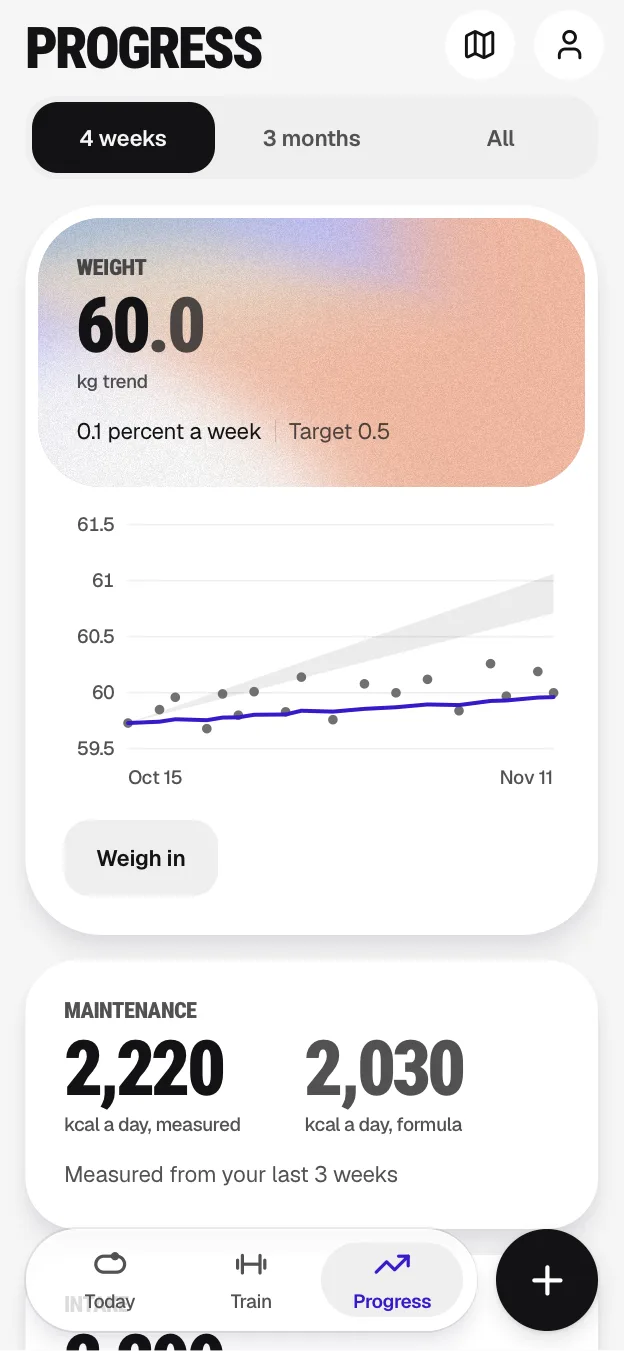
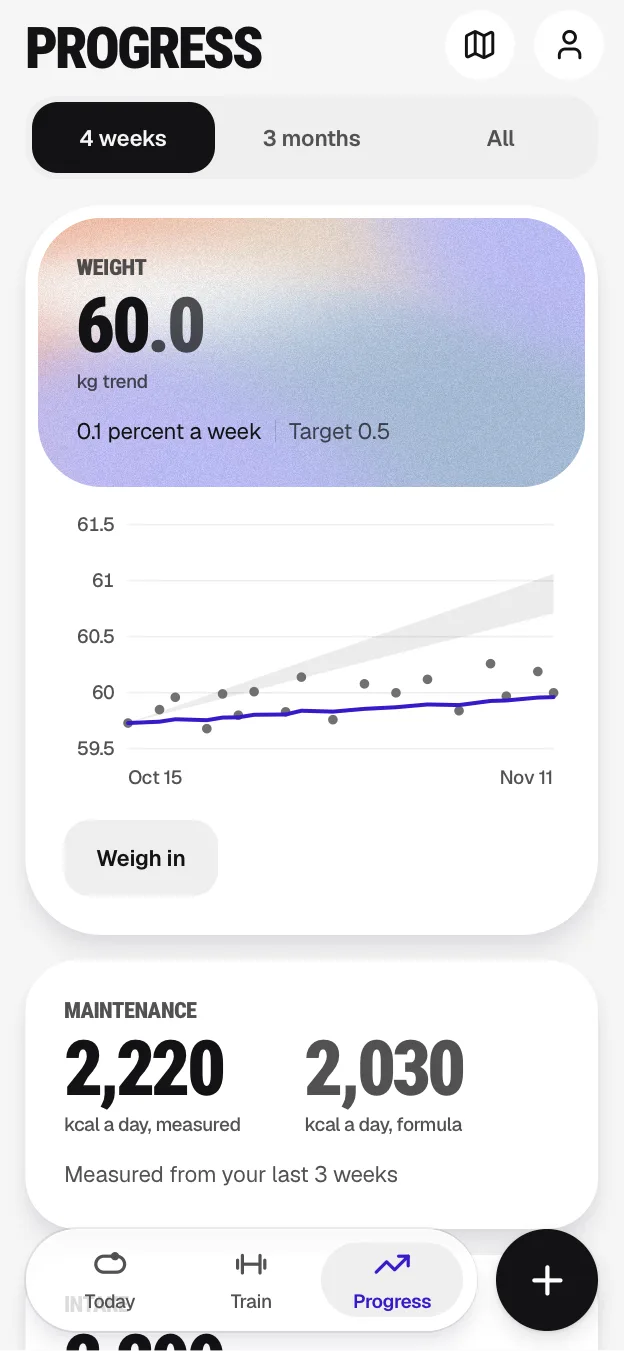
feat(p1): the critic round and the brand in every gradient
Violet moved to edges and corners, the dark washes each led by their own colour, the light
featured card no longer brown, the haze and the check-in field turned around. The owner's
addition: every gradient draws from all ten colours, violet or lavender as depth or an accent;
scripts/gradients.sh records where. Review: the script's yab calls read no stdin, the call's
and the dark featured card's fallbacks are checked, stale comments fixed.

Changed region(s): [[0.0609, 0.1554, 0.9439, 0.3731]]

diff --git a/design/tokens.css b/design/tokens.css
@@ -24,7 +24,8 @@
 
   /* Reached: green marks progress that reached its target. Nothing else is green. */
   --success: #19dba8;           /* the "+20,8%" chip: fills only */
-  --success-ink: #006644;       /* "On track" words and dots. #198669 fails 4.5 to 1 on the hero's lavender (derived) */
+  --success-ink: #006644;       /* "On track" words and dots (derived, darker than #198669 for the hero). On the photo haze
+                                   (P1) only the heading sized reached figure, large text at 3 to 1 */
   --success-soft: #daf9f1;      /* derived: 16 percent of the fill on white */
 
   /* Neutrals */
@@ -55,16 +56,17 @@
 
   /* Gradients: one per screen at most, on its hero. Never on a button, a row or text */
   /* P1, the owner's round 3: every gradient is a photo gradient made on photogradient.com from the palette (section 4),
-     each one its own eight points, all from the settings of the owner's example (scripts/gradients.sh). The first layer
+     each one its own eight points from the ten colours (the brand's violet or lavender in every one, as depth or an
+     accent), all from the settings of the owner's example (scripts/gradients.sh). The first layer
      is the site's grain, the CSS gradient beneath is the fallback; words on each are checked on its colours
      (contrast.test.ts) and on the image (landing.spec.ts) */
   --grain: url(./gradients/grain.webp) 0 0 / 128px;
-  /* the hero haze: the palette's light colours, mist and lavender cool at the top left, peach warm at the right. Secondary
-     words on it are ink at 73 percent (the `haze` utility), which matches ink-2 on white and keeps 4.5 to 1 on peach */
+  /* the hero haze: the palette's light colours, peach and sand warm at the top left, lavender and mist cool to the right
+     and below. Secondary words on it are ink at 73 percent (the `haze` utility): ink-2 on white, 4.5 to 1 on lavender */
   --grad-hero: var(--grain), url(./gradients/haze-light.webp) center / cover no-repeat,
-    radial-gradient(70% 100% at 0% 0%, #a7bedb 0%, transparent 70%),
-    radial-gradient(70% 120% at 100% 60%, #f9bba1 0%, transparent 70%),
-    radial-gradient(60% 90% at 0% 100%, #bebeff 0%, transparent 70%), #eddecc;
+    radial-gradient(70% 100% at 0% 0%, #f9bba1 0%, transparent 70%),
+    radial-gradient(70% 120% at 100% 20%, #bebeff 0%, transparent 70%),
+    radial-gradient(60% 90% at 70% 100%, #a7bedb 0%, transparent 70%), #ffffff;
   /* the screen's one featured card (U1b: the Add sheet's Photo): violet with steel and clay deepened, white words */
   --grad-feature: var(--grain), url(./gradients/feature-light.webp) center / cover no-repeat,
     radial-gradient(90% 120% at 100% 30%, #a95445 0%, transparent 70%),
@@ -186,10 +188,10 @@
      anchors it, and the page masks it to nothing at every edge (the `glow` utility), since its edges are only near the canvas */
   --glow: var(--grain), url(./gradients/glow.webp) center / 100% 100% no-repeat,
     radial-gradient(70% 50% at 50% 50%, #9c5e57 0%, rgba(56, 26, 201, 0.5) 45%, transparent 75%);
-  /* the check-in's field (pick 07): lavender led, with white, mist, heather, peach and coral */
+  /* the check-in's field (pick 07): lavender led, peach and white at the top right, coral below them, mist and heather */
   --grad-lavender: var(--grain), url(./gradients/panel.webp) center / cover no-repeat,
-    radial-gradient(60% 60% at 80% 75%, #f9bba1 0%, transparent 70%), radial-gradient(60% 60% at 60% 0%, #ffffff 0%, transparent 70%), #bebeff;
-  /* the closing call's panel, inside the dark run in both themes: clay and coral deepened, with steel, heather and violet */
+    radial-gradient(60% 60% at 60% 0%, #f9bba1 0%, transparent 70%), radial-gradient(60% 60% at 80% 70%, #f89183 0%, transparent 70%), #bebeff;
+  /* the closing call's panel, inside the dark run in both themes: heather and steel deepened, a band of clay and coral */
   --grad-call: var(--grain), url(./gradients/call.webp) center / cover no-repeat,
     radial-gradient(90% 120% at 80% 40%, #a95445 0%, transparent 70%),
     radial-gradient(60% 90% at 0% 0%, #486478 0%, transparent 70%), #121214;
@@ -205,9 +207,9 @@
   --liquid-white: rgba(255, 255, 255, 0.6);
   --liquid-white-rim: inset 1px 1px 0 rgba(255, 255, 255, 0.9), inset -1px -1px 0 rgba(255, 255, 255, 0.35);
   /* the colour-washed cards (pick 10): white words on ink, steel and clay (deepened), night words on sand */
-  --wash-ink: var(--grain), url(./gradients/wash-ink.webp) center / cover no-repeat, linear-gradient(160deg, #121214 0%, #3f5668 60%, #381ac9 100%);
-  --wash-steel: var(--grain), url(./gradients/wash-steel.webp) center / cover no-repeat, linear-gradient(160deg, #4a677c 0%, #445d70 50%, #381ac9 100%);
-  --wash-clay: var(--grain), url(./gradients/wash-clay.webp) center / cover no-repeat, linear-gradient(160deg, #a55244 0%, #9a4d40 50%, #381ac9 100%);
+  --wash-ink: var(--grain), url(./gradients/wash-ink.webp) center / cover no-repeat, linear-gradient(160deg, #121214 0%, #364957 60%, #381ac9 100%);
+  --wash-steel: var(--grain), url(./gradients/wash-steel.webp) center / cover no-repeat, linear-gradient(160deg, #4a677c 0%, #445d70 50%, #486478 100%);
+  --wash-clay: var(--grain), url(./gradients/wash-clay.webp) center / cover no-repeat, linear-gradient(160deg, #a55244 0%, #9a4d40 50%, #864439 100%);
   --wash-sand: var(--grain), url(./gradients/wash-sand.webp) center / cover no-repeat, linear-gradient(160deg, #eddecc 0%, #f9bba1 50%, #f89183 100%);
 }
 

diff --git a/tests/unit/contrast.test.ts b/tests/unit/contrast.test.ts
@@ -74,10 +74,12 @@ test('dark steps stand apart', () => {
   expect(on(dark, 'glass-edge', 'canvas'), 'dock edge on page').toBeGreaterThanOrEqual(2);
 });
 
-// U1b: the featured card's gradient (the Add sheet's Photo) carries white words on every stop, in both themes
-test('words on the featured card', () => {
-  const at = css.indexOf('--grad-feature:');
-  for (const m of css.slice(at, css.indexOf(';', at)).matchAll(/#[0-9a-f]{6}/gi)) expect(ratio(parse(light['on-accent']), parse(m[0])), m[0]).toBeGreaterThanOrEqual(4.5);
+// U1b: the featured card's gradient (the Add sheet's Photo) carries white words on every stop, in both themes; P1: the
+// closing call's too
+test('words on the featured card and the closing call', () => {
+  const at = [...css.matchAll(/--grad-(feature|call):/g)].map((m) => m.index);
+  expect(at).toHaveLength(3);
+  for (const a of at) for (const m of css.slice(a, css.indexOf(';', a)).matchAll(/#[0-9a-f]{6}/gi)) expect(ratio(parse(light['on-accent']), parse(m[0])), m[0]).toBeGreaterThanOrEqual(4.5);
 });
 
 // P1: every photo gradient's eight colours (scripts/gradients.sh), each under the grain's mean (the site's noise: 9.5

diff --git a/src/flows/landing/Landing.svelte b/src/flows/landing/Landing.svelte
@@ -328,7 +328,7 @@
   @media (prefers-reduced-motion: no-preference) { .tap:active { scale: 0.97; } }
   /* L3: the footer's Learn links scroll to these and focus them; the bar (8 + 52) and 8 more stay clear */
   section[id] { scroll-margin-top: calc(env(safe-area-inset-top) + var(--spacing) * 17); outline: none; }
-  /* the lead sits on the sky's violet top: full ink, not ink-2, keeps it at 4.5 to 1 */
+  /* the lead sits on the sky's photo (P1: mist, sand and peach, contrast.test.ts checks ink on all of it): full ink, not ink-2 */
   .hero-lead { color: var(--ink); }
 
   /* hidden until shown, in every motion setting; the slide itself only when motion is welcome */

diff --git a/docs/DESIGN.md b/docs/DESIGN.md
@@ -139,7 +139,7 @@ Two faces, self hosted from their OFL packages and precached: Roboto Condensed 9
 - **The status bar continues the top of the screen (U1b).** `topColour()` sets `theme-color` and the root's background (Safari 26 samples it): the landing hero's sky (`--sky-top`) on the landing page, the canvas everywhere else, onboarding included.
 - **Depth.** In light mode cards carry `--shadow-card`, OneFin's soft stats card shadow, and never a border with it. In dark mode cards have no shadow and a 1 px `--line` ring. Things that float (the dock, toasts, a dragged row) have `--shadow-float`. The ink pill and the dock's plus carry `--shadow-action`, a soft drop below them. No button has an inner light, a bevel, a rim, a gradient or a glow (`tests/e2e/app.spec.ts` sweeps every button for them).
 - **Content cards stay solid,** white or the dark surface, so their numbers stay readable. Nothing that carries a number you need to read is glass.
-- **Gradients (P1, the owner's round 3).** At most one per screen, on its hero. Every gradient is a photo gradient made on photogradient.com with the settings of the owner's example (screenshot 08 of round 3): Sharp Bézier, Worley Noise warp 0.4, warp size 1, eight colour points from the palette (section 4), the site's grain at 60 percent. Each is its own: its own colours and positions, all recorded in `scripts/gradients.sh`, which remakes them. The grain is the site's noise drawn once as a tile (`--grain`, 9.5 percent alpha), which gives the site's own pixels at a fraction of the weight and stays crisp at any size. `--grad-hero` (the `haze` utility) is the palette's light colours in light (mist and lavender cool at the top left, peach warm at the right) and the same deepened in dark; secondary words on it are `--haze-ink-2`, ink at 73 percent (exactly `--ink-2` on white), so they keep 4.5 to 1 across the photo. `--grad-feature` is the featured card's. The landing page's gradients are in section 13. Nothing else has a gradient. The CSS gradient beneath each is its fallback; `contrast.test.ts` checks the words on each gradient's eight colours and `landing.spec.ts` on the images.
+- **Gradients (P1, the owner's round 3).** At most one per screen, on its hero. Every gradient is a photo gradient made on photogradient.com with the settings of the owner's example (screenshot 08 of round 3): Sharp Bézier, Worley Noise warp 0.4, warp size 1, eight colour points drawn from all ten colours, the brand's two and the palette's eight (section 4), with violet or lavender in every one for depth or an accent and never the main colour, the site's grain at 60 percent. Each is its own: its own colours and positions, all recorded in `scripts/gradients.sh`, which remakes them. The grain is the site's noise drawn once as a tile (`--grain`, 9.5 percent alpha), which gives the site's own pixels at a fraction of the weight and stays crisp at any size. `--grad-hero` (the `haze` utility) is the palette's light colours in light (peach and sand warm at the top left, lavender and mist cool to the right and below) and the same deepened in dark; secondary words on it are `--haze-ink-2`, ink at 73 percent (exactly `--ink-2` on white), so they keep 4.5 to 1 across the photo. Words on the haze are ink and `--haze-ink-2`; `--success-ink` only as the heading sized reached figure (large text, 3 to 1 on the peach); no `--ink-3`. `--grad-feature` is the featured card's. The landing page's gradients are in section 13. Nothing else has a gradient. The CSS gradient beneath each is its fallback; `contrast.test.ts` checks the words on each gradient's eight colours and `landing.spec.ts` on the images.
 - **Glass.** As OneFin's "Paid" pill and "Direct pay" chip: backdrop blur, a translucent fill, a 1 px translucent white edge and a soft drop (`glass`; `glass-bar` for the dock, with more fill since rows scroll under it). Without blur (`@supports not`) the solid `--glass-solid` or `--bar-solid` stands in. Allowed only on: small chips and pills over a coloured or gradient surface or a picture (the hero's day chip, the landing page's bar and tiles), sheet backdrops (the blurred scrim), and the dock. The header is opaque.
 - **Width.** Content sits in a column of at most 480 px, centred on `--surround` on wider screens.
 - **One card, one job.** Nest only as OneFin nests: the hero card is a white shell holding its haze panel and grey stat tiles, radii stepping down. Otherwise divide a card with a hairline.
@@ -307,7 +307,7 @@ The landing page is the one marketing screen: a visitor reads it top to bottom, 
 | Phones with real screens (05, 12) | Every feature | Proof by showing: each is a screenshot of the app at the current look, never a mock-up. L2: an iPhone 16 drawn in CSS from its published sizes (393 by 852, a 54 point status bar, the island 126 by 37, 55 point screen corners), with the status bar at 9:41 and the Dynamic Island above the screen, so the app never touches the top; no shadow. A scale drawing: its sizes are shares of its own width (`cqw`), not tokens. The meal in every phone is the owner's pad kra pao with fried eggs (`tests/fixtures/krapao.jpg`) |
 
 Rules that bend here, and only here:
-- **Gradients (P1: the owner's photo gradients).** Every gradient is an image made on photogradient.com from the palette, each its own (section 6, `design/gradients/`, `scripts/gradients.sh`), the site's grain over it, its CSS gradient beneath as the fallback: `--grad-sky` (the hero: the whole palette but clay in light, slate, violet and rust in dark), `--glow` (the dark sections: rust and coral with violet and steel), `--grad-lavender` (the check-in's field, lavender led), the four `--wash-*` (the source cards: ink, steel and clay deepened with white words, sand with night words), `feature` on 01 Logging's featured card and `--grad-call` on the closing call's panel. Still never on a button, a row, a chip or text. The words on each are checked in `contrast.test.ts` and `landing.spec.ts`.
+- **Gradients (P1: the owner's photo gradients).** Every gradient is an image made on photogradient.com from the palette, each its own (section 6, `design/gradients/`, `scripts/gradients.sh`), the site's grain over it, its CSS gradient beneath as the fallback: `--grad-sky` (the hero: the whole palette but clay in light, slate and rust with a violet corner in dark), `--glow` (the dark sections: rust and coral with steel and violet), `--grad-lavender` (the check-in's field, lavender led), the four `--wash-*` (the source cards: night, steel and clay deepened with white words, sand with night words), `feature` on 01 Logging's featured card and `--grad-call` on the closing call's panel. Still never on a button, a row, a chip or text. The words on each are checked in `contrast.test.ts` and `landing.spec.ts`.
 - **The glow (L2, the owner's footer-glow-bug).** Brightest at its middle and faded to nothing at every edge (the `glow` utility's mask), so neither colour nor grain starts at a line. In the footer (L3) its middle sits on the wordmark's foot (`landing.spec.ts` checks it): below the end of the page while the footer is closed, rising from there, and behind the opened panel. In 02 Training it rises from the section's foot.
 - **Liquid Glass (L2, iOS 26's "regular" material).** Blur and saturate what is behind, tint it, and catch the light with a rim, bright top left and faint bottom right: `liquid` (follows the theme), `liquid-bar` (the bar and the floating action's tray, with the dock's fill, since content scrolls under them), `liquid-white` (night words in both themes: the hero's chips and the check-in's cards) and `liquid-violet` (white words: the footer's panels). On the bar, the hero's chips, the check-in's cards, the source cards' icon chips, the closing call's mark tile and the footer's shell and panels; the cards that carry a screen or a number stay solid (Logging, Training, Friends' tiles, the washes), as glass-01 to 05 mix the two. Never on a button: the rim is an inner light, so the back to top tile keeps `glass`. Every tap on the page has a pressed state: a fill step, and 0.97 when motion is welcome (`.tap`). L3, glass that bends: the body blurs 24 px (`--liquid-blur`), and what is behind warps at the rim. Where the browser draws SVG filters inside `backdrop-filter` (Chromium, detected in `glass.ts`), each glass gets a filter that blurs the body and magnifies a 16 px rim toward its edge. Elsewhere (Safari), a glass over a gradient image holds a `lens` span: that image again, aligned, scaled 1.12 about the glass's middle and lightly blurred, in a soft 14 px band at the rim, with the rim light drawn over it. Only where the image is all that is behind (not over a phone, not on the bar). Without blur each has a solid fill.
 - **Centred text.** Headlines, leads and the statement are centred on a phone, as OneFin's are; the hero is left aligned on a wide screen.

diff --git a/docs/DECISIONS.md b/docs/DECISIONS.md
@@ -9,7 +9,7 @@ The owner's wider palette and every gradient remade, 14 November 2026, unattende
 - **Gradients made on photogradient.com through Yab's CLI, every setting from the owner's screenshot 07:** Sharp Bézier, Worley Noise, warp 0.4 of 1.5 (the slider's 27 percent), warp size 1 of 3 (33 percent), eight points. The sliders' positions were measured off the screenshot; they are the site's defaults but for the noise. Recreating the owner's own eight points from screenshot 07 gave screenshot 08's picture, so the settings are right.
 - **Points are set through the site's own state.** The site draws its points on a canvas that only takes a drag, so a script in the page sets the colours, the positions its photo picker would set, the settings and the size, then clicks the site's own Download. Yab cannot publish a download a script starts, so the canvas the site renders for the download is read back from the page in chunks. `scripts/gradients.sh` does all of it from the table in its header (the site renders the same pixels every time: no time or random seed reaches the shader with these settings), so any one can be remade or retuned by editing its row.
 - **The grain is the site's own, as a tile, not baked into each image.** At noise 0.095 (the owner's 60 percent) the site mixes each pixel 9.5 percent toward a random grey; a tile of that random grey at 9.5 percent alpha laid over the smooth export is the same arithmetic. The tile is the site's noise exported alone (eight mid greys at 0.15) and taken back out to eight steps (25 KB, lossless). Why: baked in, the grain made a 1296 px export 1.7 MB lossless, would blur where an image is scaled up, and lossy compression eats it; the smooth exports are 3 to 12 KB each (76 KB for all thirteen). The plan allowed an overlay when it is lighter. The old soft-light blend (and the `grained` utility) is gone: plain alpha is the site's own maths.
-- **Thirteen gradients, each its own eight points:** the app's haze (light, dark) and featured card (light, dark); the landing's sky (light, dark), glow, check-in field, four source washes, and the closing call, which now has its own (`--grad-call`) instead of reusing the featured card's. Light ones use the palette as it is; the dark theme's and those under white words use it deepened toward night, so the words keep 4.5 to 1. Violet stays in most of them as the brand, no longer the main colour: the dark ones lean on slate, rust and night, so the dark theme stops reading purple.
+- **Thirteen gradients, each its own eight points:** the app's haze (light, dark) and featured card (light, dark); the landing's sky (light, dark), glow, check-in field, four source washes, and the closing call, which now has its own (`--grad-call`) instead of reusing the featured card's. Light ones use the palette as it is; the dark theme's and those under white words use it deepened toward night, so the words keep 4.5 to 1. The brand is in every one (the owner's addition after the critic round): each draws its eight points from all ten colours, violet `#381ac9` or lavender `#bebeff` placed as depth or an accent at an edge or corner, never the main colour; the header of `scripts/gradients.sh` says which sits where. The featured card keeps the most violet (the brand's one featured card); the dark ones lean on slate, rust and night, so the dark theme stops reading purple. The critic round found full violet among deepened colours glowing like neon, the dark washes and the call sharing one recipe, the light featured card going brown where violet met night and clay, and the light ones sharing one layout (cool top left, warm bottom right); all four were remade (violet moved to the edges, the washes each led by their own colour, the haze and the check-in field turned around).
 - **Words on the haze:** with the palette's mid tones in the light haze, `--ink-2` (`#525252`) fell under 4.5 to 1 on lavender and mist. On the haze, secondary words are now ink at 73 percent (`--haze-ink-2`, set by the `haze` utility), which is exactly `#525252` on white and takes the photo's tint elsewhere; dark keeps white at 80 percent. The reached figure on the haze is heading sized (24 px semibold, large text), so `--success-ink` needs 3 to 1 there; it passes 3.5.
 - **Checks:** `contrast.test.ts` reads each gradient's eight colours from `scripts/gradients.sh`, puts the grain's mean on them, and checks the words that sit on it; `landing.spec.ts` measures the images in 8 px blocks under the grain's mean, words with alpha blended per block, now including the glow and the call.
 - **`--sky-top`** follows the new sky's top row under its grain: `#ced8e2` light, `#343d4c` dark.
